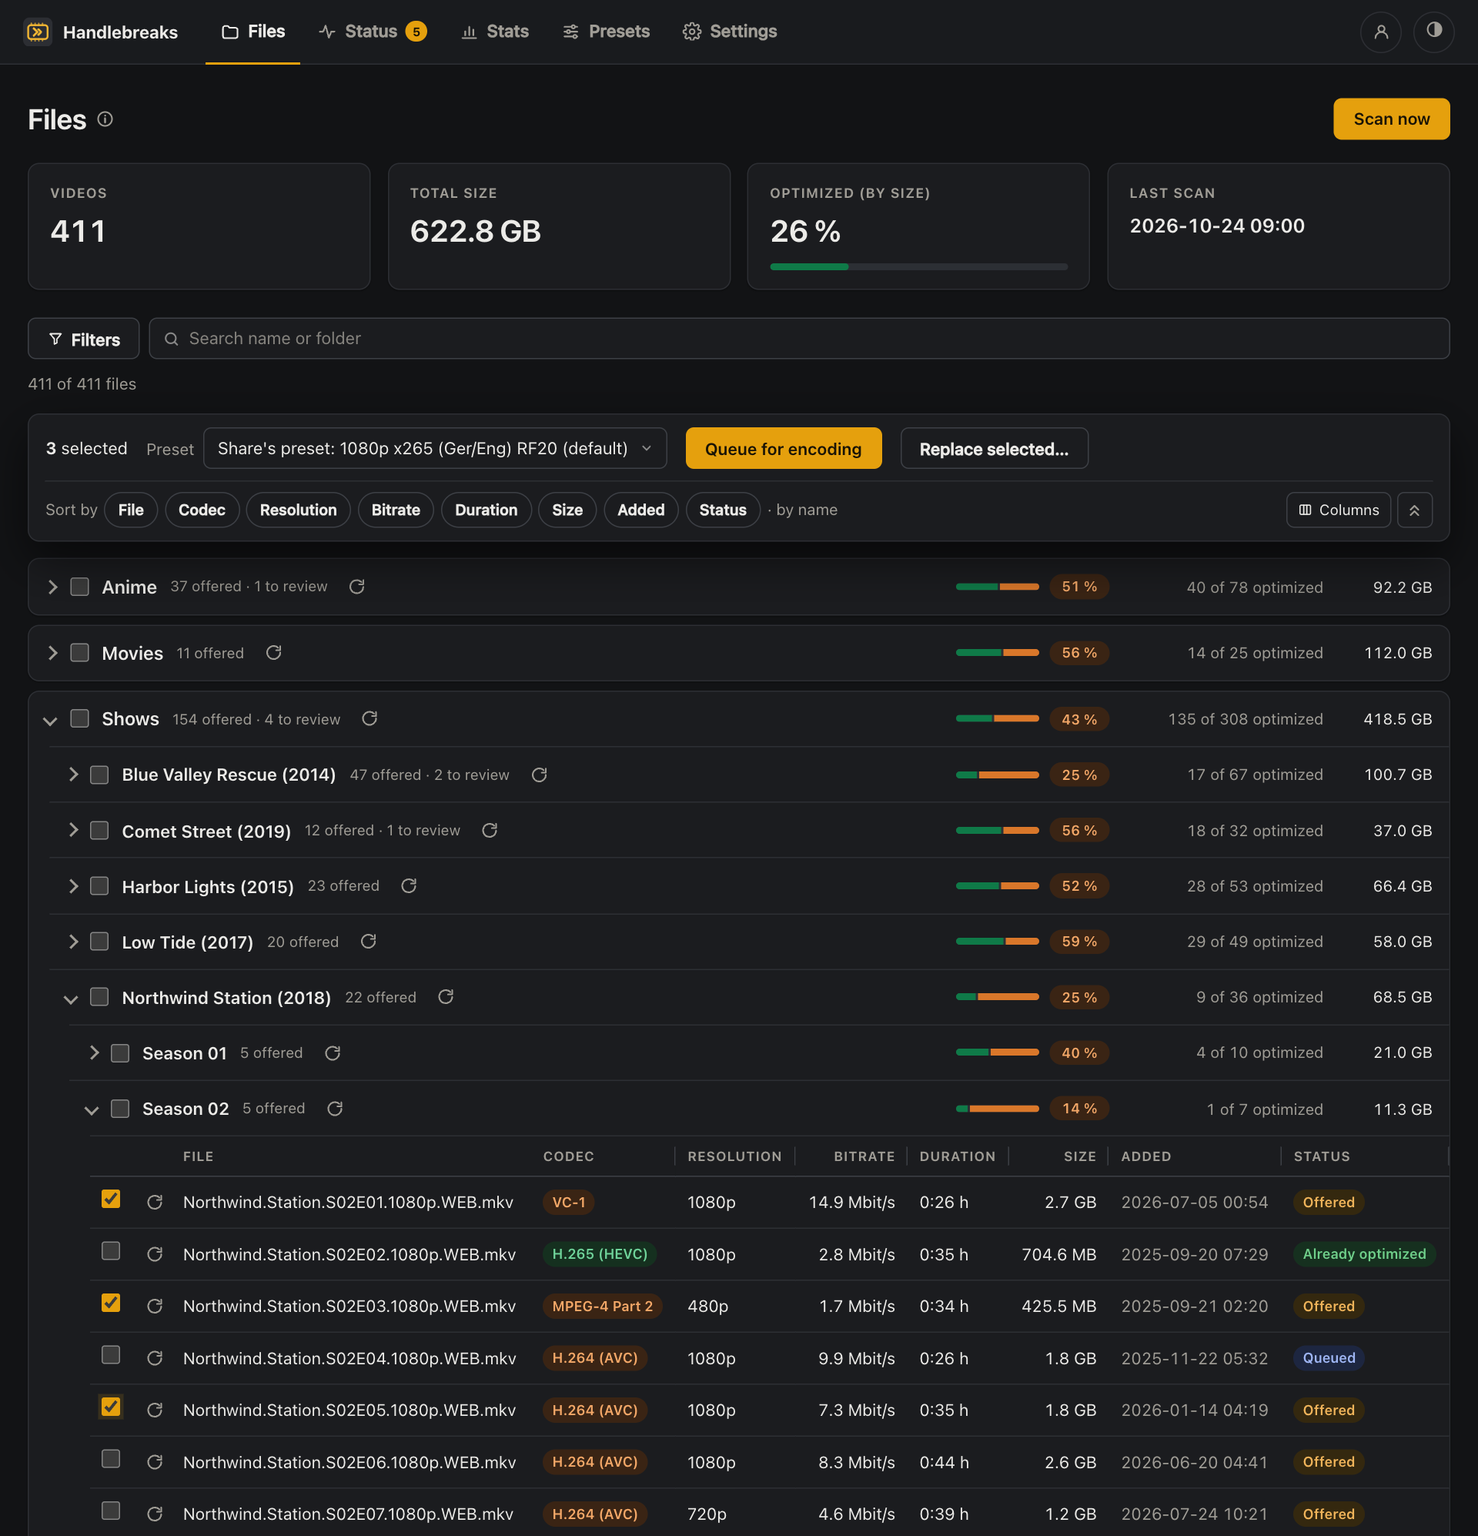
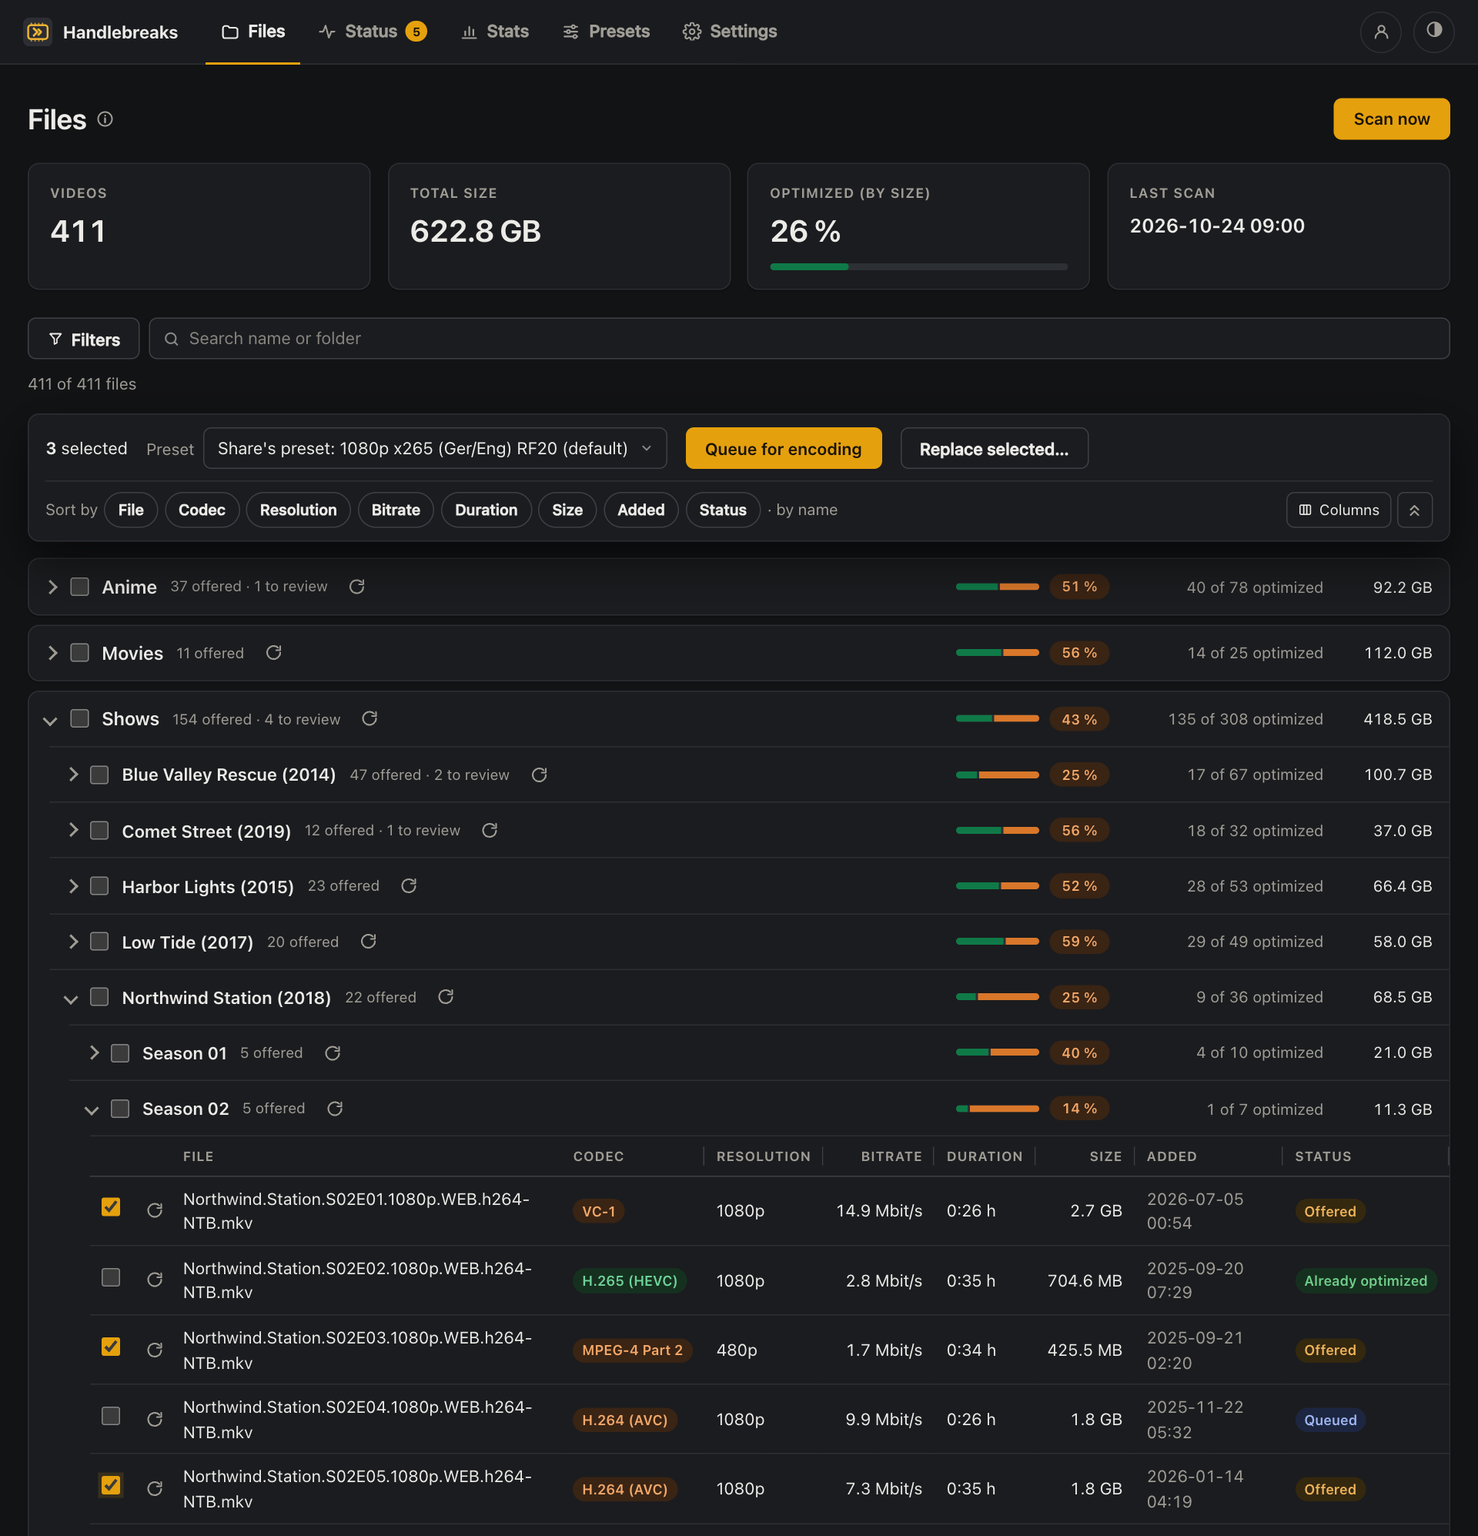
Screenshots for the README and the wiki from one script (docs/screenshots.py)
Demo data: episode names carry a codec tag, so Replace... suggests a new
name, and the encode in progress comes from a current worker.

diff --git a/docs/screenshots.py b/docs/screenshots.py
@@ -1,0 +1,321 @@
+"""
+Takes the screenshots of the README (docs/screenshot-*.png) and the wiki (images/ in the wiki
+repository) from a demo instance with the made-up library of docs/demo_data.py, so no real
+titles or paths end up in them.
+
+    python3 docs/screenshots.py                       # all of them
+    python3 docs/screenshots.py --only stats,replace-dialog
+    python3 docs/screenshots.py --list                # their names and files
+
+Needs the web UI's packages (requirements.txt) and Playwright with Chromium and WebKit
+(pip install playwright && playwright install chromium webkit). The demo runs in a temporary
+folder on a free port and is removed afterwards; ffprobe is replaced by a stub, the demo
+never scans. Whenever a page shown here changes visually, run it again for that page and
+commit the README images or push the wiki.
+"""
+import argparse
+import json
+import os
+import shutil
+import socket
+import sqlite3
+import subprocess
+import sys
+import tempfile
+import time
+import urllib.request
+from datetime import datetime, timedelta
+from pathlib import Path
+
+from playwright.sync_api import sync_playwright
+
+REPO = Path(__file__).resolve().parent.parent
+USER, PASSWORD = "demo", "demo-pass-123"
+DESKTOP = {"viewport": {"width": 1280, "height": 800}, "device_scale_factor": 1.5, "color_scheme": "dark"}
+PHONE = {"viewport": {"width": 390, "height": 844}, "device_scale_factor": 3, "has_touch": True, "color_scheme": "dark"}
+
+
+# ─── Demo instance ────────────────────────────────────────────────────────────
+
+def make_demo(root):
+    lib = root / "lib"
+    for name in ("Movies", "Shows", "Anime"):
+        (lib / name).mkdir(parents=True)
+        (lib / name / ".keep").touch()                  # an empty share folder counts as offline
+    for name in ("data", "out", "bin"):
+        (root / name).mkdir()
+    (root / "data" / "config.env").write_text("".join(
+        f'SHARE_{n}="{lib / name}"\nSHARE_{n}_NAME="{name}"\n' for n, name in enumerate(("Movies", "Shows", "Anime"), 1))
+        + f'ENCODED_DIR="{root / "out"}"\nNOTE_DIR=""\n')
+    stub = root / "bin" / "ffprobe"
+    # every file reads as HEVC, so Replace… suggests x265 names (the demo never scans)
+    stub.write_text("#!/bin/sh\necho '{\"streams\": [{\"codec_name\": \"hevc\", \"width\": 1920, \"height\": 1080}]}'\n")
+    stub.chmod(0o755)
+    env = dict(os.environ, ENCODING_DATA_DIR=str(root / "data"), PATH=f"{root / 'bin'}:{os.environ['PATH']}")
+    subprocess.run([sys.executable, str(REPO / "docs" / "demo_data.py")], env=env, check=True, stdout=subprocess.DEVNULL)
+    return env
+
+
+def free_port():
+    with socket.socket() as s:
+        s.bind(("127.0.0.1", 0))
+        return s.getsockname()[1]
+
+
+def start_web(env, port, log):
+    proc = subprocess.Popen([sys.executable, str(REPO / "webui.py"), "--port", str(port)], env=env,
+                            stdout=log, stderr=subprocess.STDOUT)
+    for _ in range(100):
+        try:
+            urllib.request.urlopen(f"http://127.0.0.1:{port}/health", timeout=1)
+            return proc
+        except OSError:
+            time.sleep(0.2)
+    proc.terminate()
+    raise SystemExit("The demo web UI didn't start.")
+
+
+def replace_jobs(data, keys):
+    """A replace in every stage for the progress bar: two done, one moving, three waiting."""
+    start = datetime.now() - timedelta(seconds=40)
+    for n, key in enumerate(keys[:6]):
+        job_id = (start + timedelta(seconds=n)).strftime("%Y%m%d-%H%M%S-%f")
+        name = key.rsplit("/", 1)[-1]
+        job = {"id": job_id, "key": key, "encoded": name, "new_name": name.replace("h264", "x265"),
+               "keep_original": True, "requested": (start + timedelta(seconds=n)).strftime("%Y-%m-%d %H:%M:%S")}
+        if n < 2:
+            folder = data / "replace-done"
+            job.update(state="done", message="Replaced.", new_key=key.rsplit("/", 1)[0] + "/" + job["new_name"],
+                       finished=datetime.now().strftime("%Y-%m-%d %H:%M:%S"), synced=True)
+        else:
+            folder = data / ("replace-running" if n == 2 else "replace")
+        folder.mkdir(exist_ok=True)
+        (folder / f"{job_id}.json").write_text(json.dumps(job))
+
+
+def scan_running(data, pid):
+    """A scan in its ffprobe phase, as encoding.ScanProgress writes it."""
+    now = time.time()
+    (data / "logs" / "scan.json").write_text(json.dumps({
+        "pid": pid, "started": now - 400, "shares": ["share1", "share2", "share3"], "phase": "probing",
+        "expected": 411, "found": 411, "checked": 411, "to_probe": 160, "probed": 58, "probe_started": now - 95,
+        "updated": now}))
+
+
+def opaque_bars(pg):
+    """Headless WebKit draws no blur behind the translucent bars, so content would show through."""
+    pg.add_style_tag(content=".top, .tabbar, .crumb-bar { background: var(--surface) !important; }")
+
+
+# ─── Screenshots ──────────────────────────────────────────────────────────────
+
+class Shots:
+    def __init__(self, play, base, data, pid):
+        self.play, self.base, self.data, self.pid = play, base, data, pid
+        self.browsers = {}
+
+    def page(self, engine="chromium", **opts):
+        if engine not in self.browsers:
+            self.browsers[engine] = getattr(self.play, engine).launch()
+        ctx = self.browsers[engine].new_context(**opts)
+        pg = ctx.new_page()
+        pg.goto(self.base + "/login")
+        pg.fill("#user", USER)
+        pg.fill("#password", PASSWORD)
+        pg.click(".auth-form button")
+        pg.wait_for_load_state("networkidle")
+        return pg
+
+    def go(self, pg, path, wait=600):
+        pg.goto(self.base + path)
+        pg.wait_for_load_state("networkidle")
+        pg.wait_for_timeout(wait)
+
+    def settle(self, pg):
+        pg.mouse.move(5, 5)                     # no hover tooltips
+        pg.evaluate("window.scrollTo(0, 0)")
+        pg.wait_for_timeout(400)
+
+    def open_folders(self, pg, *names):
+        for name in names:
+            pg.locator("summary .dirname", has_text=name).first.click()
+            pg.wait_for_load_state("networkidle")
+            pg.wait_for_timeout(300)
+
+    def tick(self, pg, *names):
+        for name in names:
+            pg.locator("tr", has_text=name).locator('input[name="key"]').check()
+
+    # README: docs/screenshot-files.png and docs/screenshot-phone.png (sizes in CLAUDE.md)
+    def readme_files(self, out):
+        pg = self.page(**dict(DESKTOP, viewport={"width": 1280, "height": 1330}))
+        self.go(pg, "/files")
+        self.open_folders(pg, "Shows", "Northwind Station (2018)", "Season 02")
+        self.tick(pg, "Northwind.Station.S02E01", "Northwind.Station.S02E03", "Northwind.Station.S02E05")
+        self.settle(pg)
+        pg.screenshot(path=out)
+
+    def readme_phone(self, out):
+        pg = self.page("webkit", **PHONE)
+        self.go(pg, "/status?view=review", 1500)
+        opaque_bars(pg)
+        pg.screenshot(path=out)
+
+    # Wiki: Web-UI
+    def files(self, out):
+        pg = self.page(**dict(DESKTOP, viewport={"width": 1480, "height": 900}))   # wide enough for the filter panel
+        self.go(pg, "/files")
+        self.open_folders(pg, "Movies")
+        self.settle(pg)
+        pg.screenshot(path=out)
+
+    def files_phone(self, out):
+        pg = self.page("webkit", **PHONE)
+        self.go(pg, "/files")
+        self.open_folders(pg, "Shows", "Harbor Lights (2015)", "Season 01")
+        opaque_bars(pg)
+        # scroll down past the folder, then up a little, so the tab bar shows (it hides while scrolling down)
+        pg.evaluate("""async () => {
+            const s = [...document.querySelectorAll('summary')].find(e => e.textContent.includes('Harbor Lights'));
+            const y = s.getBoundingClientRect().top + scrollY - 110;
+            window.scrollTo(0, y + 60);
+            await new Promise(r => setTimeout(r, 400));
+            window.scrollTo(0, y);
+        }""")
+        pg.wait_for_timeout(1000)
+        pg.screenshot(path=out)
+
+    def status(self, out):
+        pg = self.page(**DESKTOP)
+        self.go(pg, "/status?view=review", 1200)
+        self.settle(pg)
+        pg.screenshot(path=out)
+
+    def stats(self, out):
+        pg = self.page(**DESKTOP)
+        self.go(pg, "/stats")
+        self.settle(pg)
+        pg.screenshot(path=out)
+
+    def settings(self, out):
+        pg = self.page(**DESKTOP)
+        self.go(pg, "/settings/replace")
+        self.settle(pg)
+        pg.locator(".field .info-btn").first.click()
+        pg.wait_for_timeout(300)
+        pg.screenshot(path=out)
+
+    # Wiki: Presets
+    def preset_editor(self, out):
+        pg = self.page(**DESKTOP)
+        self.go(pg, "/presets")
+        pg.locator("a[href^='/presets/']").filter(has_text="1080p").first.click()
+        pg.wait_for_load_state("networkidle")
+        pg.locator("button[data-tab='Video']").click()
+        pg.wait_for_timeout(300)
+        self.settle(pg)
+        pg.screenshot(path=out)
+
+    # Wiki: Replacing-Originals
+    def replace_dialog(self, out):
+        pg = self.page(**DESKTOP)
+        self.go(pg, "/status?view=review", 1200)
+        pg.locator("button[data-replace]").first.click()
+        pg.wait_for_timeout(1200)
+        pg.mouse.move(5, 5)
+        box = pg.locator("dialog[data-replace-dialog]").bounding_box()
+        pg.screenshot(path=out, clip={"x": box["x"] - 24, "y": box["y"] - 24,
+                                      "width": box["width"] + 48, "height": box["height"] + 48})
+
+    def replace_progress(self, out):
+        with sqlite3.connect(self.data / "encoding.db") as con:
+            keys = [k for (k,) in con.execute("SELECT key FROM files WHERE status = 'waiting' ORDER BY key")]
+        replace_jobs(self.data, keys)
+        pg = self.page(**DESKTOP)
+        self.go(pg, "/status?view=review", 1500)
+        pg.locator("[data-rp-toggle]").click()
+        pg.wait_for_timeout(400)
+        self.settle(pg)
+        bar = pg.locator("[data-rp]").bounding_box()
+        pg.screenshot(path=out, clip={"x": 0, "y": 0, "width": 1280, "height": bar["y"] + bar["height"] + 16})
+
+    # Wiki: Scanning
+    def scan_progress(self, out):
+        scan_running(self.data, self.pid)
+        pg = self.page(**DESKTOP)
+        self.go(pg, "/status", 1500)
+        pg.locator("#scan").scroll_into_view_if_needed()
+        pg.mouse.move(5, 5)
+        pg.wait_for_timeout(400)
+        pg.locator("#scan").screenshot(path=out)
+        (self.data / "logs" / "scan.json").unlink()
+
+    def close(self):
+        for b in self.browsers.values():
+            b.close()
+
+
+# name → (method, folder: "readme" or "wiki", file name); the order matters: replace-progress
+# and scan-progress leave state behind that would show on later screenshots
+SHOTS = {
+    "readme-files": ("readme_files", "readme", "screenshot-files.png"),
+    "readme-phone": ("readme_phone", "readme", "screenshot-phone.png"),
+    "files": ("files", "wiki", "web-ui-files.png"),
+    "files-phone": ("files_phone", "wiki", "web-ui-files-phone.png"),
+    "status": ("status", "wiki", "web-ui-status.png"),
+    "stats": ("stats", "wiki", "web-ui-stats.png"),
+    "settings": ("settings", "wiki", "web-ui-settings.png"),
+    "preset-editor": ("preset_editor", "wiki", "preset-editor.png"),
+    "replace-dialog": ("replace_dialog", "wiki", "replace-dialog.png"),
+    "scan-progress": ("scan_progress", "wiki", "scan-progress.png"),
+    "replace-progress": ("replace_progress", "wiki", "replace-progress.png"),
+}
+
+
+def main():
+    ap = argparse.ArgumentParser(description=__doc__.strip().splitlines()[0])
+    ap.add_argument("--only", help="comma-separated names (see --list)")
+    ap.add_argument("--wiki", default=str(REPO.parent / "handlebreaks.wiki" / "images"), help="folder for the wiki images")
+    ap.add_argument("--list", action="store_true", help="list the screenshots and exit")
+    args = ap.parse_args()
+    if args.list:
+        for name, (_, where, file) in SHOTS.items():
+            print(f"{name:18} {where}/{file}")
+        return
+    names = args.only.split(",") if args.only else list(SHOTS)
+    unknown = [n for n in names if n not in SHOTS]
+    if unknown:
+        raise SystemExit(f"Unknown: {', '.join(unknown)} (see --list)")
+    folders = {"readme": REPO / "docs", "wiki": Path(args.wiki)}
+    if any(SHOTS[n][1] == "wiki" for n in names):
+        folders["wiki"].mkdir(parents=True, exist_ok=True)
+
+    root = Path(tempfile.mkdtemp(prefix="handlebreaks-demo-"))
+    proc = None
+    try:
+        env = make_demo(root)
+        data = root / "data"
+        subprocess.run([sys.executable, "-c", f"import auth; auth.set_account({USER!r}, {PASSWORD!r})"],
+                       cwd=REPO, env=env, check=True)
+        port = free_port()
+        with open(root / "web.log", "w") as log:
+            proc = start_web(env, port, log)
+            with sync_playwright() as play:
+                shots = Shots(play, f"http://127.0.0.1:{port}", data, proc.pid)
+                try:
+                    for name in (n for n in SHOTS if n in names):
+                        method, where, file = SHOTS[name]
+                        out = folders[where] / file
+                        getattr(shots, method)(str(out))
+                        print(f"{name:18} {out}")
+                finally:
+                    shots.close()
+    finally:
+        if proc:
+            proc.terminate()
+            proc.wait(10)
+        shutil.rmtree(root, ignore_errors=True)
+
+
+if __name__ == "__main__":
+    main()

diff --git a/docs/demo_data.py b/docs/demo_data.py
@@ -1,6 +1,7 @@
 """
-Demo data for the README screenshot (docs/screenshot-files.png): a made-up library
-(Blender open movies and invented shows), so no real titles end up in the repo.
+Demo data for the screenshots of the README and the wiki: a made-up library (Blender open
+movies and invented shows), so no real titles end up in them. docs/screenshots.py sets up
+the demo and runs this script; by hand:
 
     mkdir -p /tmp/demo/data /tmp/demo/lib/{Movies,Shows,Anime} /tmp/demo/out
     touch /tmp/demo/lib/{Movies,Shows,Anime}/.keep    # empty share folders count as offline
@@ -11,8 +12,8 @@ Demo data for the README screenshot (docs/screenshot-files.png): a made-up libra
 
 ffprobe must be on PATH for the web UI (a stub is enough; the demo never scans),
 otherwise the page shows a "ffprobe is not installed" notice. The script also puts finished
-encodes into the output folder and an encode in progress into the data folder, for the phone
-screenshot (docs/screenshot-phone.png): the Status page at 390 px width, dark mode.
+encodes into the output folder and an encode in progress (from a current worker, so the
+Stop buttons show) into the data folder.
 """
 import random
 import sys
@@ -53,7 +54,7 @@ for prefix, lib, weights in (("share2", shows, [30, 45, 12, 2, 3, 6, 2]), ("shar
         for season in range(1, seasons + 1):
             for ep in range(1, random.randint(8, 13)):
                 w = [x * (2 if (i in (0, 4)) == (bias > 0.5) else 1) for i, x in enumerate(weights)]
-                add(f"{prefix}/{s}/Season {season:02d}/{name}.S{season:02d}E{ep:02d}.1080p.WEB.mkv", random.uniform(1300, 2700), w)
+                add(f"{prefix}/{s}/Season {season:02d}/{name}.S{season:02d}E{ep:02d}.1080p.WEB.h264-NTB.mkv", random.uniform(1300, 2700), w)
 enc.save_files(infos)
 st = enc.load_state(); st["last_scan"] = "2026-10-24 09:00"; enc.save_state(st)
 import sqlite3
@@ -71,5 +72,7 @@ logs = enc.DATA_DIR / "logs"
 logs.mkdir(exist_ok=True)
 current = next(k for k in infos if k.startswith("share1/Sintel "))
 (logs / "current.txt").write_text(f"{current}\t3\t9\t{int(LAST_SCAN)}\n")
+(enc.WORKER_LOCK).mkdir(exist_ok=True)              # a current worker: the Stop buttons show
+(enc.WORKER_LOCK / "stoppable").touch()
 (logs / "progress.log").write_text("Encoding: task 1 of 1, 64.20 % (41.80 fps, avg 38.60 fps, ETA 00h07m12s)\r")
 print(len(infos), "demo files")

diff --git a/CLAUDE.md b/CLAUDE.md
@@ -52,7 +52,7 @@ The preset editor must cover every setting of the newest HandBrake. Whenever a n
 - The **wiki** is the full documentation of the latest release, one page per topic: Home, Choose-a-Setup, Performance, Setup-A-Native-macOS, Setup-B-Docker, Setup-C-Docker-and-Native-Encoding, Mounting-the-Library, Web-UI, Command-Line, Scanning, Replacing-Originals, Restarts-and-Offline-Shares, Configuration, Shares, Presets, Files-and-Data, Updating, Security, Troubleshooting, Uninstalling, plus `_Sidebar.md` (navigation; add new pages there and on Home) and `_Footer.md`. Links between pages are `[Text](Page-Name#anchor)`; from the README they are absolute (`https://github.com/madotha/handlebreaks/wiki/Page-Name`).
 - Whenever a change affects how the tool is set up, configured, used, updated or migrated (new requirements, settings, commands, mounts, files to reinstall, data migrations, web UI features), update the matching wiki pages in the same change, and the README too if it touches the quick start, the agent prompt, the requirements, the setup comparison or the update commands. Commit the wiki with a message describing the change and push it together with the code; check that every internal wiki link still points to an existing page and heading.
 
-The README shows two screenshots side by side: the Files page (`docs/screenshot-files.png`) and the Status page on a phone (`docs/screenshot-phone.png`). Whenever one of these pages changes visually (layout, columns, colors, controls, the header with the logo), retake the affected screenshot in the same change. Never use a real library for them: run a demo instance with the made-up data from `docs/demo_data.py` (instructions in its docstring; it also creates encodes awaiting review and an encode in progress) in an isolated data folder. Files: open Shows → Northwind Station (2018) → Season 02, tick S02E01, S02E03 and S02E05, capture at 1280 px width (1330 px high, scale 1.5), dark mode. Phone: Status → Awaiting review at 390 × 844 px, scale 3, dark mode, WebKit. The two `width` percentages in the README keep both images the same height; adjust them if a screenshot's proportions change. Its **Quick start (Docker)** and the **AI coding agent prompt** are the entry points for new users: keep both in sync with any change to setup, requirements or settings. The prompt also appears on the wiki's Choose-a-Setup page (section "Set it up with an AI coding agent"); both copies must stay word for word identical, so change them together.
+Screenshots: the README shows two side by side, the Files page (`docs/screenshot-files.png`) and the Status page on a phone (`docs/screenshot-phone.png`); the wiki has more in its `images/` folder (Web-UI: Files, Files on a phone, Status, Stats, Settings; Presets: the editor; Replacing-Originals: the dialog and the progress bar; Scanning: the Scan panel). All of them come from `docs/screenshots.py` (`--list` names them, `--only` takes some, `--wiki` is the wiki's `images/` folder, default `../handlebreaks.wiki/images`; needs Playwright with Chromium and WebKit). It runs a demo instance with the made-up data of `docs/demo_data.py` in a temporary folder, so never use a real library. Whenever a page shown in a screenshot changes visually (layout, columns, colors, controls, texts, the header with the logo), rerun the script for it in the same change: commit the README images, push the wiki's. A new screenshot goes into its `SHOTS` table, sizes and steps are in its methods (README: Files at 1280 × 1330 px, phone at 390 × 844 px in WebKit; dark mode). The two `width` percentages in the README keep both images the same height; adjust them if a screenshot's proportions change. Its **Quick start (Docker)** and the **AI coding agent prompt** are the entry points for new users: keep both in sync with any change to setup, requirements or settings. The prompt also appears on the wiki's Choose-a-Setup page (section "Set it up with an AI coding agent"); both copies must stay word for word identical, so change them together.
 
 ## Commands
 
